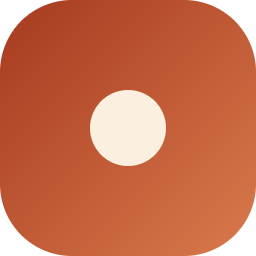
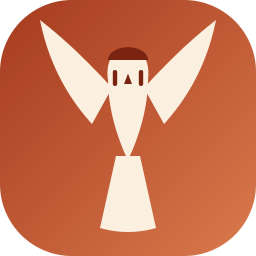
图标：画一只真的红隼，替换窗口/任务栏/标题栏/站点各处
旧图标是「圆角方块 + 一个奶油点」，是 .brand-dot 的放大版，看不出红隼。
换成悬停姿态的红隼剪影：双翼上举成 V、身体竖直、长尾下垂成窄扇形，
从正前方看——迎风定悬是红隼区别于其他猛禽的标志动作。
脸谱带冠羽 + 眼下两道颊纹（malar stripe），这是它区别于其他小型隼类的花纹。
配色仍从红隼身上取：栗红渐变底 + 奶油剪影 + 深栗压细节。

替换点：
- resources/icon.svg 主源；scripts/make-icon.mjs 重栅格化出 .ico（16/24/32/48/64/128/256）与 .png
- 标题栏/启动页的 .brand-dot 换成 KestrelMark 组件（同一份图形，带渐变底，
  否则奶油色在云雾白玻璃栏上看不见）
- 站点四页顶栏的 brand SVG 同步换成红隼；补 favicon.ico / favicon.png / apple-touch-icon.png
  并在每页 <head> 挂上 link

Changed region(s): [[0.1562, 0.0625, 0.8438, 0.9062]]

diff --git a/site/index.html b/site/index.html
@@ -6,6 +6,9 @@
 <title>Kestrel — 日记与文章在同一个屋顶下</title>
 <meta name="description" content="Kestrel 是一款本地优先的桌面笔记应用：日记与文章共用一种笔记体，双链、嵌套标签、属性、回收站与历史版本都在一个 SQLite 单文件里。零网络请求。">
 <script>(function(){var t='cloud';try{var v=localStorage.getItem('kestrel.theme');if(v==='cloud'||v==='paper'||v==='midnight'||v==='terminal')t=v}catch(e){};document.documentElement.setAttribute('data-theme',t)})();</script>
+<link rel="icon" href="favicon.ico" sizes="any">
+<link rel="icon" type="image/png" sizes="32x32" href="favicon.png">
+<link rel="apple-touch-icon" href="apple-touch-icon.png">
 <link rel="stylesheet" href="assets/site.css">
 <script src="assets/site.js" defer></script>
 </head>
@@ -14,9 +17,21 @@
 
 <header class="topbar glass">
   <a class="brand" href="index.html">
-    <svg width="26" height="26" viewBox="0 0 26 26" role="img" aria-label="Kestrel 标记">
-      <rect width="26" height="26" rx="7" fill="#b4482c"></rect>
-      <path d="M7 18.5 L13 6.5 L19 18.5 L13 14.6 Z" fill="#fbefdf"></path>
+    <svg width="26" height="26" viewBox="0 0 64 64" role="img" aria-label="Kestrel 标记">
+      <defs><linearGradient id="kg" x1="0" y1="0" x2="1" y2="1"><stop offset="0" stop-color="#a63a1f"></stop><stop offset="1" stop-color="#d97a4c"></stop></linearGradient></defs>
+      <rect width="64" height="64" rx="18" fill="url(#kg)"></rect>
+      <g fill="#fbefdf">
+        <path d="M28 22 Q19 12 10 5 Q13 20 23 31 Z"></path>
+        <path d="M36 22 Q45 12 54 5 Q51 20 41 31 Z"></path>
+        <path d="M32 12 C36.5 12 37.5 16.5 37 20 C37 28 34 36 32 40 C30 36 27 28 27 20 C26.5 16.5 27.5 12 32 12 Z"></path>
+        <path d="M29 39 L25 57 Q32 59 39 57 L35 39 Z"></path>
+      </g>
+      <g fill="#7a2411">
+        <path d="M27 15 A5 3.2 0 0 1 37 15 Z"></path>
+        <path d="M32 18.4 L31 21 L33 21 Z"></path>
+        <rect x="28.2" y="17.5" width="1.1" height="4" rx="0.55"></rect>
+        <rect x="34.7" y="17.5" width="1.1" height="4" rx="0.55"></rect>
+      </g>
     </svg>
     Kestrel
   </a>

diff --git a/site/about.html b/site/about.html
@@ -6,6 +6,9 @@
 <title>关于 Kestrel</title>
 <meta name="description" content="Kestrel 的项目定位、技术栈、架构分层、版本与许可、路线图。本地优先笔记应用，Electron + React + node:sqlite，零原生模块。">
 <script>(function(){var t='cloud';try{var v=localStorage.getItem('kestrel.theme');if(v==='cloud'||v==='paper'||v==='midnight'||v==='terminal')t=v}catch(e){};document.documentElement.setAttribute('data-theme',t)})();</script>
+<link rel="icon" href="favicon.ico" sizes="any">
+<link rel="icon" type="image/png" sizes="32x32" href="favicon.png">
+<link rel="apple-touch-icon" href="apple-touch-icon.png">
 <link rel="stylesheet" href="assets/site.css">
 <script src="assets/site.js" defer></script>
 </head>
@@ -14,9 +17,21 @@
 
 <header class="topbar glass">
   <a class="brand" href="index.html">
-    <svg width="26" height="26" viewBox="0 0 26 26" role="img" aria-label="Kestrel 标记">
-      <rect width="26" height="26" rx="7" fill="#b4482c"></rect>
-      <path d="M7 18.5 L13 6.5 L19 18.5 L13 14.6 Z" fill="#fbefdf"></path>
+    <svg width="26" height="26" viewBox="0 0 64 64" role="img" aria-label="Kestrel 标记">
+      <defs><linearGradient id="kg" x1="0" y1="0" x2="1" y2="1"><stop offset="0" stop-color="#a63a1f"></stop><stop offset="1" stop-color="#d97a4c"></stop></linearGradient></defs>
+      <rect width="64" height="64" rx="18" fill="url(#kg)"></rect>
+      <g fill="#fbefdf">
+        <path d="M28 22 Q19 12 10 5 Q13 20 23 31 Z"></path>
+        <path d="M36 22 Q45 12 54 5 Q51 20 41 31 Z"></path>
+        <path d="M32 12 C36.5 12 37.5 16.5 37 20 C37 28 34 36 32 40 C30 36 27 28 27 20 C26.5 16.5 27.5 12 32 12 Z"></path>
+        <path d="M29 39 L25 57 Q32 59 39 57 L35 39 Z"></path>
+      </g>
+      <g fill="#7a2411">
+        <path d="M27 15 A5 3.2 0 0 1 37 15 Z"></path>
+        <path d="M32 18.4 L31 21 L33 21 Z"></path>
+        <rect x="28.2" y="17.5" width="1.1" height="4" rx="0.55"></rect>
+        <rect x="34.7" y="17.5" width="1.1" height="4" rx="0.55"></rect>
+      </g>
     </svg>
     Kestrel
   </a>

diff --git a/site/donate.html b/site/donate.html
@@ -6,6 +6,9 @@
 <title>捐赠 Kestrel</title>
 <meta name="description" content="如果 Kestrel 每天都被你打开，可以考虑请作者喝杯咖啡。捐赠二维码与金额建议。">
 <script>(function(){var t='cloud';try{var v=localStorage.getItem('kestrel.theme');if(v==='cloud'||v==='paper'||v==='midnight'||v==='terminal')t=v}catch(e){};document.documentElement.setAttribute('data-theme',t)})();</script>
+<link rel="icon" href="favicon.ico" sizes="any">
+<link rel="icon" type="image/png" sizes="32x32" href="favicon.png">
+<link rel="apple-touch-icon" href="apple-touch-icon.png">
 <link rel="stylesheet" href="assets/site.css">
 <script src="assets/site.js" defer></script>
 <script src="assets/confetti.js" defer></script>
@@ -16,9 +19,21 @@
 
 <header class="topbar glass">
   <a class="brand" href="index.html">
-    <svg width="26" height="26" viewBox="0 0 26 26" role="img" aria-label="Kestrel 标记">
-      <rect width="26" height="26" rx="7" fill="#b4482c"></rect>
-      <path d="M7 18.5 L13 6.5 L19 18.5 L13 14.6 Z" fill="#fbefdf"></path>
+    <svg width="26" height="26" viewBox="0 0 64 64" role="img" aria-label="Kestrel 标记">
+      <defs><linearGradient id="kg" x1="0" y1="0" x2="1" y2="1"><stop offset="0" stop-color="#a63a1f"></stop><stop offset="1" stop-color="#d97a4c"></stop></linearGradient></defs>
+      <rect width="64" height="64" rx="18" fill="url(#kg)"></rect>
+      <g fill="#fbefdf">
+        <path d="M28 22 Q19 12 10 5 Q13 20 23 31 Z"></path>
+        <path d="M36 22 Q45 12 54 5 Q51 20 41 31 Z"></path>
+        <path d="M32 12 C36.5 12 37.5 16.5 37 20 C37 28 34 36 32 40 C30 36 27 28 27 20 C26.5 16.5 27.5 12 32 12 Z"></path>
+        <path d="M29 39 L25 57 Q32 59 39 57 L35 39 Z"></path>
+      </g>
+      <g fill="#7a2411">
+        <path d="M27 15 A5 3.2 0 0 1 37 15 Z"></path>
+        <path d="M32 18.4 L31 21 L33 21 Z"></path>
+        <rect x="28.2" y="17.5" width="1.1" height="4" rx="0.55"></rect>
+        <rect x="34.7" y="17.5" width="1.1" height="4" rx="0.55"></rect>
+      </g>
     </svg>
     Kestrel
   </a>

diff --git a/site/404.html b/site/404.html
@@ -6,15 +6,30 @@
 <title>没有找到这个页面 · Kestrel</title>
 <meta name="robots" content="noindex">
 <script>(function(){var t='cloud';try{var v=localStorage.getItem('kestrel.theme');if(v==='cloud'||v==='paper'||v==='midnight'||v==='terminal')t=v}catch(e){};document.documentElement.setAttribute('data-theme',t)})();</script>
+<link rel="icon" href="favicon.ico" sizes="any">
+<link rel="icon" type="image/png" sizes="32x32" href="favicon.png">
+<link rel="apple-touch-icon" href="apple-touch-icon.png">
 <link rel="stylesheet" href="assets/site.css">
 <script src="assets/site.js" defer></script>
 </head>
 <body>
 <header class="topbar glass">
   <a class="brand" href="index.html">
-    <svg width="26" height="26" viewBox="0 0 26 26" role="img" aria-label="Kestrel 标记">
-      <rect width="26" height="26" rx="7" fill="#b4482c"></rect>
-      <path d="M7 18.5 L13 6.5 L19 18.5 L13 14.6 Z" fill="#fbefdf"></path>
+    <svg width="26" height="26" viewBox="0 0 64 64" role="img" aria-label="Kestrel 标记">
+      <defs><linearGradient id="kg" x1="0" y1="0" x2="1" y2="1"><stop offset="0" stop-color="#a63a1f"></stop><stop offset="1" stop-color="#d97a4c"></stop></linearGradient></defs>
+      <rect width="64" height="64" rx="18" fill="url(#kg)"></rect>
+      <g fill="#fbefdf">
+        <path d="M28 22 Q19 12 10 5 Q13 20 23 31 Z"></path>
+        <path d="M36 22 Q45 12 54 5 Q51 20 41 31 Z"></path>
+        <path d="M32 12 C36.5 12 37.5 16.5 37 20 C37 28 34 36 32 40 C30 36 27 28 27 20 C26.5 16.5 27.5 12 32 12 Z"></path>
+        <path d="M29 39 L25 57 Q32 59 39 57 L35 39 Z"></path>
+      </g>
+      <g fill="#7a2411">
+        <path d="M27 15 A5 3.2 0 0 1 37 15 Z"></path>
+        <path d="M32 18.4 L31 21 L33 21 Z"></path>
+        <rect x="28.2" y="17.5" width="1.1" height="4" rx="0.55"></rect>
+        <rect x="34.7" y="17.5" width="1.1" height="4" rx="0.55"></rect>
+      </g>
     </svg>
     Kestrel
   </a>

diff --git a/src/renderer/src/components/KestrelMark.tsx b/src/renderer/src/components/KestrelMark.tsx
@@ -1,0 +1,40 @@
+import type { JSX } from 'react'
+
+/** 界面上那枚红隼标记：圆角渐变底 + 奶油剪影，与 resources/icon.svg 同一份图形、
+ *  同一套配色，所以任务栏上那枚和应用里这枚是同一个东西。
+ *  带背景是因为奶油色在云雾白的玻璃标题栏上几乎看不见——底色必须对比得起来。
+ *  应用图标（窗口/安装包）走 resources/icon.svg 栅格化出的 .ico/.png，
+ *  两处的图形比例必须一致；改这里记得同步改 icon.svg。 */
+export function KestrelMark({ size = 18 }: { size?: number }): JSX.Element {
+  const id = `kestrel-mark-grad-${size}`
+  return (
+    <svg
+      className="kestrel-mark"
+      width={size}
+      height={size}
+      viewBox="0 0 64 64"
+      role="img"
+      aria-label="Kestrel"
+    >
+      <defs>
+        <linearGradient id={id} x1="0" y1="0" x2="1" y2="1">
+          <stop offset="0" stopColor="var(--brand-deep)" />
+          <stop offset="1" stopColor="var(--brand-light)" />
+        </linearGradient>
+      </defs>
+      <rect width="64" height="64" rx="18" fill={`url(#${id})`} />
+      <g fill="var(--brand-cream)">
+        <path d="M28 22 Q19 12 10 5 Q13 20 23 31 Z" />
+        <path d="M36 22 Q45 12 54 5 Q51 20 41 31 Z" />
+        <path d="M32 12 C36.5 12 37.5 16.5 37 20 C37 28 34 36 32 40 C30 36 27 28 27 20 C26.5 16.5 27.5 12 32 12 Z" />
+        <path d="M29 39 L25 57 Q32 59 39 57 L35 39 Z" />
+      </g>
+      <g fill="#7a2411">
+        <path d="M27 15 A5 3.2 0 0 1 37 15 Z" />
+        <path d="M32 18.4 L31 21 L33 21 Z" />
+        <rect x="28.2" y="17.5" width="1.1" height="4" rx="0.55" />
+        <rect x="34.7" y="17.5" width="1.1" height="4" rx="0.55" />
+      </g>
+    </svg>
+  )
+}

diff --git a/src/renderer/src/styles/app.css b/src/renderer/src/styles/app.css
@@ -40,26 +40,12 @@
   letter-spacing: -0.01em;
   flex-shrink: 0;
 }
-/* 标记用固定的品牌色，不跟 --accent：见 tokens.css 里 --brand 的说明。
-   图形是 resources/icon.svg 的 16px 版：圆角方块 + 居中奶油点，
-   圆角与点径都按 18/64、9.5/64 的同一比例折过来。 */
-.brand-dot {
-  position: relative;
-  width: 16px;
-  height: 16px;
-  border-radius: var(--radius-xs);
-  background: linear-gradient(135deg, var(--brand-deep), var(--brand-light));
-  box-shadow: 0 0 14px var(--brand-soft);
-}
-.brand-dot::after {
-  content: '';
-  position: absolute;
-  inset: 0;
-  margin: auto;
-  width: 4.75px;
-  height: 4.75px;
-  border-radius: 50%;
-  background: var(--brand-cream);
+/* 标题栏/启动页里那枚红隼。图形与 resources/icon.svg 同源（KestrelMark.tsx 内联），
+   颜色用固定的 brand 三色，不跟主题的 --accent 走——理由见 tokens.css 里 --brand 的说明。
+   外面这圈柔光是旧 .brand-dot 的遗产，让标记在玻璃标题栏上不至于陷进背景里。 */
+.kestrel-mark {
+  flex-shrink: 0;
+  filter: drop-shadow(0 0 6px var(--brand-soft));
 }
 
 .mode-switch {

diff --git a/src/renderer/src/App.tsx b/src/renderer/src/App.tsx
@@ -13,6 +13,7 @@ import { SearchPanel } from '@/components/SearchPanel'
 import { PromoteCard } from '@/components/PromoteCard'
 import { RecycleBin } from '@/components/RecycleBin'
 import { Bookmarks } from '@/components/Bookmarks'
+import { KestrelMark } from '@/components/KestrelMark'
 import { TagRenameCard } from '@/components/TagRenameCard'
 import { TopicSheet } from '@/components/TopicSheet'
 import { TopicRenameCard } from '@/components/TopicRenameCard'
@@ -123,7 +124,7 @@ export default function App(): JSX.Element {
   if (!ready) {
     return (
       <div className="boot">
-        <span className="brand-dot" />
+        <KestrelMark size={22} />
         <span>正在打开库…</span>
       </div>
     )

diff --git a/src/renderer/src/components/TitleBar.tsx b/src/renderer/src/components/TitleBar.tsx
@@ -11,6 +11,7 @@ import {
   IconStar,
   IconTheme,
 } from '@/components/Icons'
+import { KestrelMark } from '@/components/KestrelMark'
 
 export function TitleBar(): JSX.Element {
   const mode = useStore((s) => s.mode)
@@ -29,7 +30,7 @@ export function TitleBar(): JSX.Element {
   return (
     <header className="titlebar glass">
       <div className="brand">
-        <span className="brand-dot" />
+        <KestrelMark size={18} />
         Kestrel
       </div>
 

diff --git a/site/assets/site.css b/site/assets/site.css
@@ -215,9 +215,11 @@ a:hover {
   text-decoration: none;
 }
 
+/* 标题栏那枚红隼。图形与 resources/icon.svg 同源，只是没有背景方块——
+   旁边就写着「Kestrel」，不需要再套一层壳。 */
 .brand svg {
   display: block;
-  border-radius: var(--radius-sm);
+  filter: drop-shadow(0 0 6px var(--brand-soft));
 }
 
 .topbar-links {
